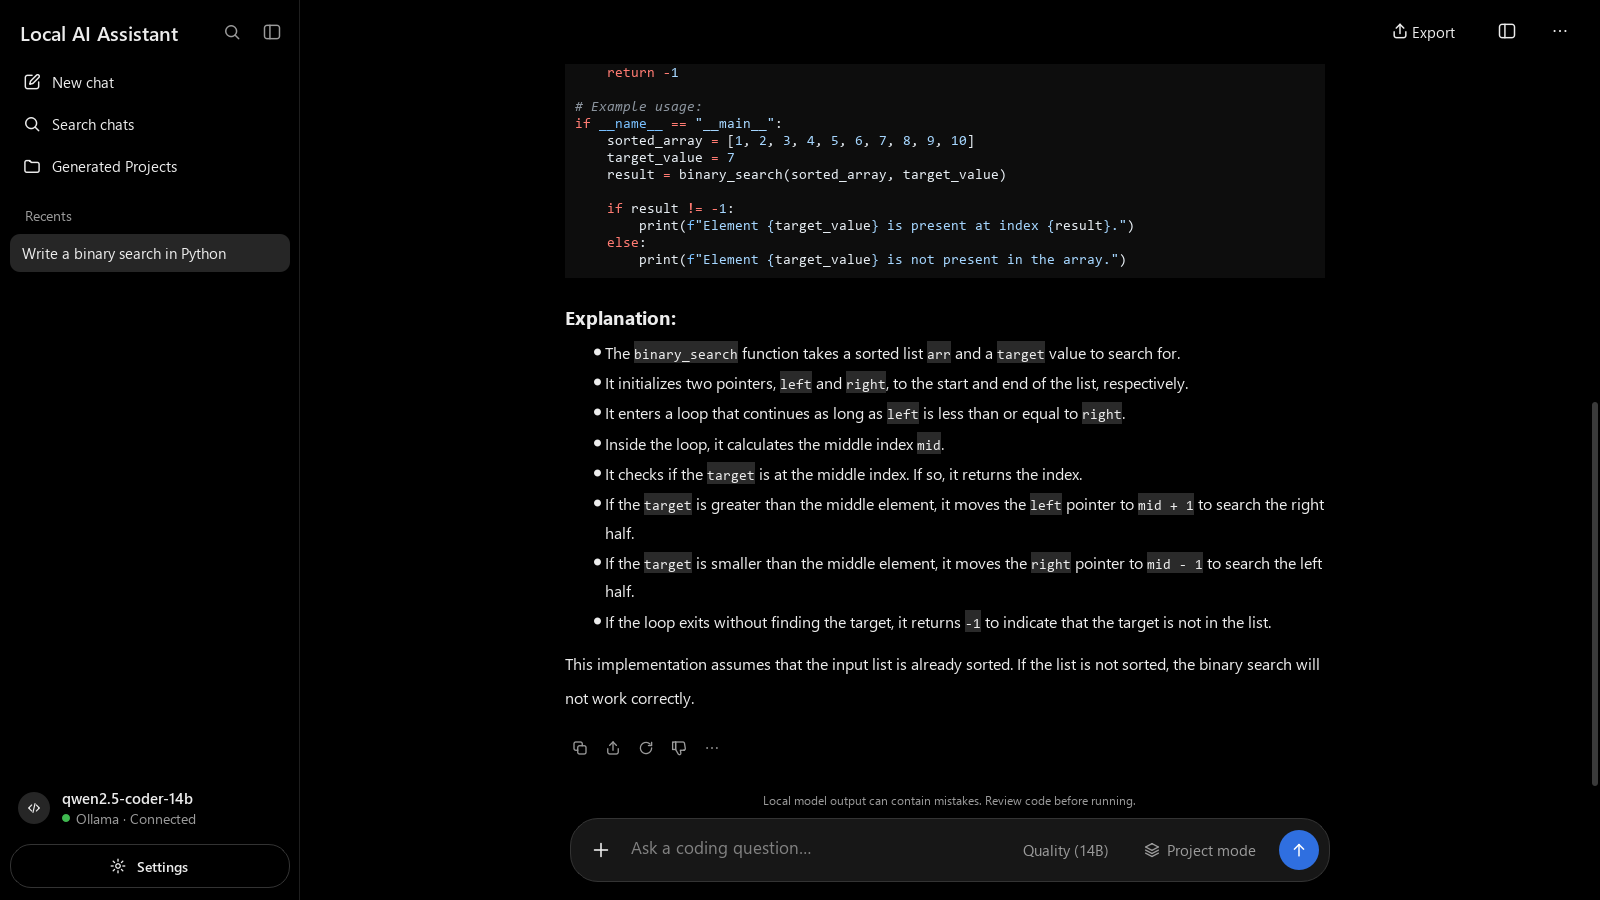
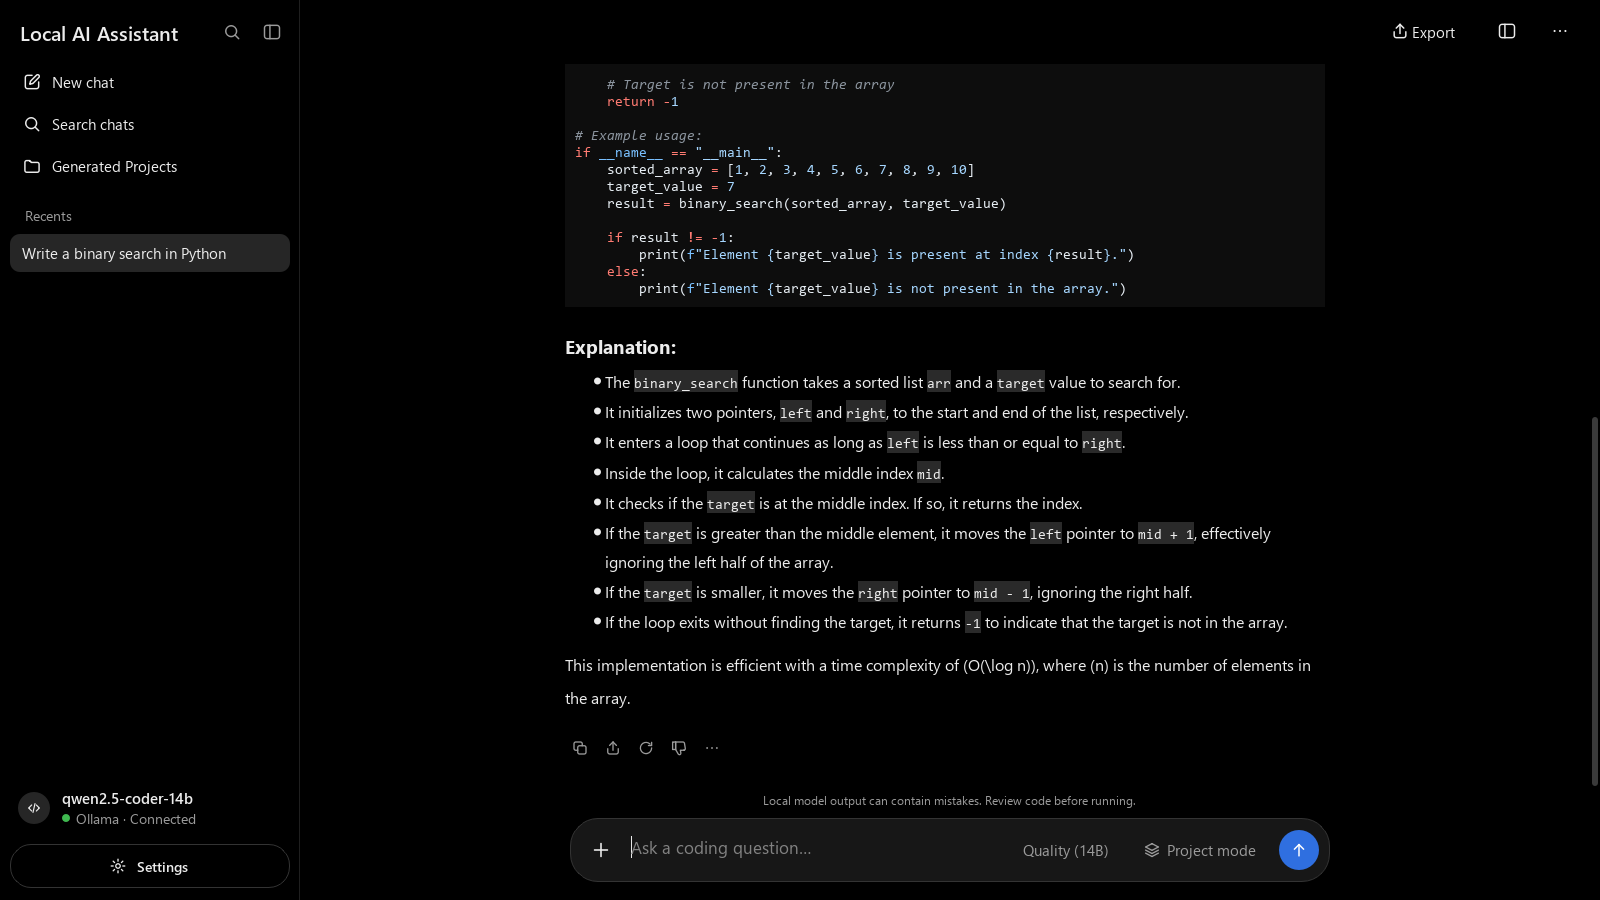
Phase 14: pre-publish cleanup
- screenshots 06-09 retaken in a neutral folder (D:\laa-demo), no user name visible
- tests/test_no_personal_paths.py: fails on C:\Users\<name> paths in tracked text files
- restored tool runs show Checks passed/failed instead of the model name, and failed
  runs no longer restore as error cards (DB v4 messages.kind, backfilled) + regression test
- fix an invalid escape in a Phase 13 test; version 1.1.1; docs updated
Tests: 633 passed, 1 skipped (MOCK); REAL app test 5/5; exe --check OK.

Changed region(s): [[0.3438, 0.0622, 0.8125, 0.6844], [0.375, 0.6844, 0.8125, 0.7467]]

diff --git a/app/ui/main_window.py b/app/ui/main_window.py
@@ -111,6 +111,8 @@ STATUS_PLANNING = "Planning project…"
 STATUS_PLAN_READY = "Project plan · review it, then click Generate files"
 JOB_CHAT, JOB_PLAN, JOB_GENERATE, JOB_TOOL = "chat", "plan", "generate", "tool"
 STATUS_RUNNING = "Running command…"
+STATUS_CHECKS_PASSED = "Checks passed"
+STATUS_CHECKS_FAILED = "Checks failed"
 MAX_REPAIR_ROUNDS = 3
 
 
@@ -448,11 +450,14 @@ class MainWindow(QMainWindow):
         if message.role == "user":
             self.chat_view.add_user_message(message.content)
             return
-        if message.status == "error":
+        if message.kind == "tool":
+            status = {"complete": STATUS_CHECKS_PASSED, "error": STATUS_CHECKS_FAILED}.get(message.status,
+                                                                                         STATUS_STOPPED)
+        elif message.status == "error":
             card = self.chat_view.add_error(message.content)
             card.retryRequested.connect(self.retry)
             return
-        if message.status == "stopped":
+        elif message.status == "stopped":
             status = STATUS_STOPPED
         elif self.demo_mode:
             status = demo.DEMO_STATUS
@@ -541,7 +546,7 @@ class MainWindow(QMainWindow):
 
     def _save_reply(self, chat_id: str, text: str, status: str, files: list[str] | None = None,
                     stats: StreamStats | None = None, project_id: str | None = None,
-                    model_name: str | None = None) -> ChatMessage | None:
+                    model_name: str | None = None, kind: str = "chat") -> ChatMessage | None:
         has_stats = stats is not None and stats.eval_count > 0
         replace = self._replace_reply_chat == chat_id
         self._replace_reply_chat = None
@@ -553,6 +558,7 @@ class MainWindow(QMainWindow):
                 project_id=project_id,
                 replace=replace,
                 model_name=model_name,
+                kind=kind,
             )
         except AppError as exc:
             self._storage_failed(exc, card=chat_id == self._current_chat_id)
@@ -1087,9 +1093,9 @@ class MainWindow(QMainWindow):
                 text += f"\n\n**Repair round {next_round} of {MAX_REPAIR_ROUNDS}:** asking the model for a fix…"
         if message is not None:
             message.set_text(text)
-            message.finish(status="Checks passed" if ok else "Checks failed")
+            message.finish(status=STATUS_CHECKS_PASSED if ok else STATUS_CHECKS_FAILED)
         if chat_id:
-            saved = self._save_reply(chat_id, text, "complete" if ok else "error")
+            saved = self._save_reply(chat_id, text, "complete" if ok else "error", kind="tool")
             if saved is not None and message is not None:
                 message.message_id = saved.id
         if next_round and chat_id:
@@ -1184,7 +1190,8 @@ class MainWindow(QMainWindow):
                 message.set_text("The command was stopped. Its process tree was ended.")
             message.finish(status=STATUS_STOPPED)
             if self._active_chat_id:
-                saved = self._save_reply(self._active_chat_id, message.text(), "stopped")
+                saved = self._save_reply(self._active_chat_id, message.text(), "stopped",
+                                         kind="tool" if self._job_kind == JOB_TOOL else "chat")
                 if saved is not None:
                     message.message_id = saved.id
         self._end_stream()

diff --git a/tests/test_storage.py b/tests/test_storage.py
@@ -57,7 +57,7 @@ def test_schema_created_at_latest_with_pragmas(db_path):
         assert isinstance(conn.execute("SELECT 1").fetchone(), sqlite3.Row)
     finally:
         conn.close()
-    assert latest_version() == 3
+    assert latest_version() == 4
 
 
 def test_reopen_does_not_reapply(db_path):
@@ -333,7 +333,7 @@ def test_inspect_database_is_read_only(db_path):
 
 
 def test_repository_schema_version(repo):
-    assert repo.schema_version() == latest_version() == 3
+    assert repo.schema_version() == latest_version() == 4
 
 
 def test_real_v1_database_upgrades_to_latest_and_keeps_data(db_path):
@@ -395,7 +395,7 @@ def test_v2_database_upgrades_to_v3_and_keeps_data(db_path):
     v2.close()
     repo = SqliteChatRepository.open(db_path)
     try:
-        assert repo.schema_version() == 3
+        assert repo.schema_version() == latest_version()
         old = repo.get_messages(chat.id)[0]
         assert old.content == "old answer" and old.model_name is None  # unknown for old rows
         assert repo.get_chat(chat.id).model_name == "qwen2.5-coder-14b:latest"
@@ -414,3 +414,32 @@ def test_message_and_chat_model_round_trip(repo):
         repo.set_chat_model(chat.id, " ")
     with pytest.raises(StorageError):
         repo.set_chat_model("missing", "qwen2.5-coder-7b:latest")
+
+
+
+# --- v4: message kind (Phase 14) ------------------------------------------------------------
+TOOL_TEXT = "`python -m pytest -q` in `D:\\laa-demo\\p`\n\nExit code 1 · 0.5 s\n\nErrors:\n````text\nboom\n````"
+
+
+def test_v3_database_upgrades_to_v4_and_backfills_tool_messages(db_path):
+    v3 = SqliteChatRepository(open_database(db_path, MIGRATIONS[:3]))
+    chat = v3.create_chat()
+    for seq, content in ((1, TOOL_TEXT), (2, "A normal answer with `code` in it.")):
+        v3._conn.execute(
+            "INSERT INTO messages (conversation_id, seq, role, content, status, created_at)"
+            " VALUES (?, ?, 'assistant', ?, 'error', '2026-01-01')", (chat.id, seq, content))
+    v3.close()
+    repo = SqliteChatRepository.open(db_path)
+    try:
+        kinds = [m.kind for m in repo.get_messages(chat.id)]
+        assert repo.schema_version() == 4 and kinds == ["tool", "chat"]
+    finally:
+        repo.close()
+
+
+def test_message_kind_round_trip_and_validation(repo):
+    chat = repo.create_chat()
+    repo.add_message(chat.id, ChatMessage("assistant", "out", kind="tool"))
+    assert repo.get_messages(chat.id)[0].kind == "tool"
+    with pytest.raises(StorageError):
+        repo.add_message(chat.id, ChatMessage("assistant", "x", kind="weird"))

diff --git a/tests/test_no_personal_paths.py b/tests/test_no_personal_paths.py
@@ -1,0 +1,58 @@
+"""Release hygiene: no tracked text file may contain a real user's home path (C:\\Users\\<name>).
+
+Generic placeholders are allowed: ``C:\\Users\\...``, ``C:\\Users\\<user>``, ``C:\\Users\\Public``,
+``C:\\Users\\Default`` and ``C:\\Users\\All Users``.
+"""
+
+import re
+import subprocess
+from pathlib import Path
+
+import pytest
+
+ROOT = Path(__file__).resolve().parent.parent
+USER_PATH = re.compile(r"[A-Za-z]:[\\/]+Users[\\/]+([^\\/\s`'\"<>|*?:]+)", re.IGNORECASE)
+ALLOWED_NAMES = {"...", "<user>", "<name>", "public", "default", "all users", "%username%"}
+
+
+def offending_lines(text: str) -> list[str]:
+    hits = []
+    for line in text.splitlines():
+        for match in USER_PATH.finditer(line):
+            name = match.group(1).strip().lower()
+            if name not in ALLOWED_NAMES and not name.startswith("<"):
+                hits.append(line.strip()[:160])
+    return hits
+
+
+def tracked_text_files() -> list[Path]:
+    try:
+        out = subprocess.run(["git", "ls-files", "-z"], cwd=ROOT, capture_output=True, check=True).stdout
+    except (OSError, subprocess.CalledProcessError):
+        pytest.skip("git is not available")
+    files = []
+    for name in out.decode("utf-8", "replace").split("\0"):
+        path = ROOT / name
+        if not name or not path.is_file() or path.resolve() == Path(__file__).resolve():
+            continue  # this file holds made-up example paths on purpose
+        data = path.read_bytes()
+        if b"\0" in data[:8192]:
+            continue  # binary (images): checked by eye, see docs/TEST_REPORT.md
+        files.append(path)
+    return files
+
+
+def test_detector_catches_real_user_paths_and_allows_placeholders():
+    assert offending_lines(r"saved to C:\Users\alice\AppData\Local\x")
+    assert offending_lines("see C:/Users/bob/Desktop")
+    assert not offending_lines(r"hard-coded user paths (for example `C:\Users\...`)")
+    assert not offending_lines(r"C:\Users\<user>\AppData and C:\Users\Public\x")
+
+
+def test_no_tracked_text_file_contains_a_user_home_path():
+    problems = {}
+    for path in tracked_text_files():
+        hits = offending_lines(path.read_text(encoding="utf-8", errors="replace"))
+        if hits:
+            problems[str(path.relative_to(ROOT))] = hits[:3]
+    assert not problems, f"personal paths in tracked files: {problems}"

diff --git a/app/storage/chat_repository.py b/app/storage/chat_repository.py
@@ -45,7 +45,7 @@ def _message(row: sqlite3.Row) -> ChatMessage:
     return ChatMessage(
         role=row["role"], content=row["content"], status=row["status"], eval_count=row["eval_count"],
         tokens_per_sec=row["tokens_per_sec"], feedback=row["feedback"], id=row["id"], seq=row["seq"],
-        created_at=row["created_at"], model_name=row["model_name"],
+        created_at=row["created_at"], model_name=row["model_name"], kind=row["kind"],
     )
 
 
@@ -153,9 +153,9 @@ class SqliteChatRepository:
         ).fetchone()[0]
         cursor = conn.execute(
             "INSERT INTO messages (conversation_id, seq, role, content, status, eval_count, tokens_per_sec,"
-            " feedback, created_at, model_name) VALUES (?, ?, ?, ?, ?, ?, ?, ?, ?, ?)",
+            " feedback, created_at, model_name, kind) VALUES (?, ?, ?, ?, ?, ?, ?, ?, ?, ?, ?)",
             (chat_id, seq, message.role, message.content, message.status, message.eval_count,
-             message.tokens_per_sec, message.feedback, now, message.model_name),
+             message.tokens_per_sec, message.feedback, now, message.model_name, message.kind),
         )
         for position, path in enumerate(message.files):
             conn.execute("INSERT INTO message_files (message_id, position, path, project_id) VALUES (?, ?, ?, ?)",
@@ -165,7 +165,7 @@ class SqliteChatRepository:
             role=message.role, content=message.content, files=list(message.files), status=message.status,
             eval_count=message.eval_count, tokens_per_sec=message.tokens_per_sec, feedback=message.feedback,
             id=cursor.lastrowid, seq=seq, created_at=now, project_id=message.project_id,
-            model_name=message.model_name,
+            model_name=message.model_name, kind=message.kind,
         )
 
     def _touch(self, conn: sqlite3.Connection, chat_id: str, now: str) -> None:

diff --git a/tests/test_ui_commands.py b/tests/test_ui_commands.py
@@ -104,3 +104,26 @@ def test_no_project_means_no_command(win):
     win.approver = lambda command, cwd: pytest.fail("must not ask")
     assert win.run_project_tests() is False
     assert win.toast.isVisible()
+
+
+
+def test_restored_tool_runs_show_checks_status_not_the_model(qtbot, win, project, tmp_config, tmp_path):
+    """Regression: after a restart, test-run messages showed the model name, and failed runs were
+    restored as red error cards with raw Markdown."""
+    win.approver = lambda command, cwd: True
+    with qtbot.waitSignal(win.streamFinished, timeout=60000):
+        win.run_project_tests()  # passes
+    (project / "test_calc.py").write_text("def test_bad():\n    assert 1 == 2\n", encoding="utf-8")
+    win._repair.clear()
+    with qtbot.waitSignal(win.streamFinished, timeout=60000):
+        win.run_project_command(["python", "-m", "pytest", "-q"])  # fails, no repair loop
+    chat_id = win.current_chat_id()
+    kinds = [(m.kind, m.status) for m in win.store.get_messages(chat_id) if m.role == "assistant"]
+    assert kinds == [("tool", "complete"), ("tool", "error")]
+
+    win.chat_view.clear()
+    win._current_chat_id = None
+    win.select_chat(chat_id)  # restore from the database
+    restored = [w for w in win.chat_view.items if isinstance(w, AssistantMessage)]
+    assert [w.status_label.text() for w in restored] == ["Checks passed", "Checks failed"]
+    assert not [w for w in win.chat_view.items if isinstance(w, ErrorCard)]

diff --git a/tests/test_main.py b/tests/test_main.py
@@ -70,7 +70,7 @@ def test_check_reports_database_without_creating_it(tmp_path):
     result = _run(tmp_path, "--check", LAA_OLLAMA_URL=UNUSED_LOCAL_URL)
     assert result.returncode == 0, result.stderr
     assert "assistant.db" in result.stdout
-    assert "DB schema     : not created yet (app supports v3)" in result.stdout
+    assert "DB schema     : not created yet (app supports v4)" in result.stdout
     assert not (tmp_path / "data" / "assistant.db").exists()
 
 
@@ -81,7 +81,7 @@ def test_check_reports_schema_and_chat_count(tmp_path):
     repo.create_chat()
     repo.close()
     result = _run(tmp_path, "--check", LAA_OLLAMA_URL=UNUSED_LOCAL_URL)
-    assert "DB schema     : v3 (app supports v3)" in result.stdout
+    assert "DB schema     : v4 (app supports v4)" in result.stdout
     assert "Chats         : 1" in result.stdout
 
 
@@ -141,5 +141,5 @@ def test_check_reports_both_models_and_optional_fast(tmp_path):
     assert "Model         : qwen2.5-coder-14b:latest (default, Quality)" in result.stdout
     assert "Fast model    : qwen2.5-coder-7b:latest (optional" in result.stdout
     assert "Fast present  : no" in result.stdout
-    assert "ollama create qwen2.5-coder-7b -f .\ollama\Modelfile.fast" in result.stdout
+    assert r"ollama create qwen2.5-coder-7b -f .\ollama\Modelfile.fast" in result.stdout
     assert "WARNING" not in result.stdout  # the fast model is optional

diff --git a/app/backend/chat_store.py b/app/backend/chat_store.py
@@ -23,6 +23,7 @@ AUTO_TITLE_MAX = 40
 TITLE_MAX = 80
 ROLES = ("user", "assistant")
 STATUSES = ("complete", "stopped", "error")
+KINDS = ("chat", "tool")  # tool = output of an approved command (tests); restored as a checks result
 FEEDBACK_BAD = "bad"
 FEEDBACK_VALUES = (None, FEEDBACK_BAD)
 LAST_CHAT_SETTING = "last_chat_id"
@@ -43,6 +44,7 @@ class ChatMessage:
     created_at: str | None = None
     project_id: str | None = None  # the project the file cards belong to
     model_name: str | None = None  # the model that wrote an assistant message
+    kind: str = "chat"
 
 
 @dataclass
@@ -95,6 +97,8 @@ def check_message(message: ChatMessage) -> None:
         raise StorageError("Could not save the message.", detail=f"invalid role {message.role!r}")
     if message.status not in STATUSES:
         raise StorageError("Could not save the message.", detail=f"invalid status {message.status!r}")
+    if message.kind not in KINDS:
+        raise StorageError("Could not save the message.", detail=f"invalid kind {message.kind!r}")
     if not isinstance(message.content, str):
         raise StorageError("Could not save the message.", detail="content must be text")
 

diff --git a/app/storage/database.py b/app/storage/database.py
@@ -82,11 +82,19 @@ SCHEMA_V3 = """
 ALTER TABLE messages ADD COLUMN model_name TEXT;
 """
 
+SCHEMA_V4 = """
+ALTER TABLE messages ADD COLUMN kind TEXT NOT NULL DEFAULT 'chat';
+UPDATE messages SET kind = 'tool'
+ WHERE role = 'assistant' AND content LIKE '`%` in `%'
+   AND (content LIKE '%Exit code %' OR content LIKE '%Command timed out%');
+"""
+
 # Ordered (version, SQL). Append new versions; never edit a released one.
 MIGRATIONS: list[tuple[int, str]] = [
     (1, SCHEMA_V1),
     (2, SCHEMA_V2),  # Phase 6: file cards of generated/edited files
     (3, SCHEMA_V3),  # Phase 13: which model wrote each answer (Quality 14B or Fast 7B)
+    (4, SCHEMA_V4),  # Phase 14: 'tool' messages (test/command output) restore as checks, not as answers
 ]
 
 _SCHEMA_VERSION_SQL = (

diff --git a/app/backend/chat_service.py b/app/backend/chat_service.py
@@ -129,6 +129,7 @@ class ChatService:
         project_id: str | None = None,
         replace: bool = False,
         model_name: str | None = None,
+        kind: str = "chat",
     ) -> ChatMessage | None:
         """Save an assistant message.
 
@@ -140,7 +141,7 @@ class ChatService:
             return None
         message = ChatMessage("assistant", text, files=list(files or []), status=status,
                               eval_count=eval_count, tokens_per_sec=tokens_per_sec, project_id=project_id,
-                              model_name=model_name)
+                              model_name=model_name, kind=kind)
         if replace:
             return self.store.replace_reply(chat_id, message)
         return self.store.add_message(chat_id, message)

diff --git a/tests/test_version.py b/tests/test_version.py
@@ -10,7 +10,7 @@ from tests.test_main import UNUSED_LOCAL_URL, _run
 
 def test_version_format():
     assert re.fullmatch(r"\d+\.\d+\.\d+", __version__)
-    assert __version__ == "1.1.0"
+    assert __version__ == "1.1.1"
 
 
 def test_check_and_version_flag_show_the_version(tmp_path):

diff --git a/app/__version__.py b/app/__version__.py
@@ -1,3 +1,3 @@
 """Single source of the application version."""
 
-__version__ = "1.1.0"
+__version__ = "1.1.1"

diff --git a/PLAN.md b/PLAN.md
@@ -194,6 +194,17 @@ stop at every phase boundary and wait for approval.
 
 ---
 
+## Phase 14 — Pre-publish Cleanup  `[x]`
+
+- [x] Found every tracked file and commit containing the Windows user name, `C:\Users\` or "OneDrive" (text and images)
+- [x] Current files clean; screenshots 06–09 retaken under `D:\laa-demo` (REAL app test 5/5)
+- [x] `tests/test_no_personal_paths.py` fails on any `C:\Users\<name>` path in tracked text files
+- [x] Backup at `D:\coder slm-backup`; history rewritten with git filter-repo (paths replaced, old screenshots stripped); tags re-created
+- [x] Restored tool runs show "Checks passed"/"Checks failed" (schema v4 `messages.kind`, backfilled) + regression test
+- [x] Version 1.1.1; pytest, exe rebuild and `--check` verified
+
+---
+
 ## Final Deliverables Checklist
 
 - [x] Native Windows desktop app (PySide6)
@@ -233,3 +244,4 @@ stop at every phase boundary and wait for approval.
 | 2026-10-12 | 11 | Windows packaging: PyInstaller spec (onedir, windowed), bundled prompt/icons/Modelfile/docs, --check console attach + logs\check.txt, bundled-Modelfile hint, worker shutdown at exit, INSTALL.md, TEST_REPORT.md, README | 601 passed, 1 skipped (MOCK); 4 integration passed (REAL); packaged exe --check and window launch OK (REAL) |
 | 2026-10-12 | 12 | Polish and release 1.0.0: performance trials (nothing kept), REAL end-to-end app test + 6 fixes, build 567 → 322 MB, gitignore/secret scan, version 1.0.0, README/CHANGELOG/LICENSE | 611 passed, 1 skipped (MOCK); 9 integration passed (REAL); exe --check OK |
 | 2026-10-13 | 13 | Fast mode: optional user-selected `qwen2.5-coder-7b:latest` per chat (no fallback), DB v3, both-model health and --check, plan-card note, parser fix found by the REAL 7B run; v1.1.0 | 628 passed, 1 skipped (MOCK); 11 integration passed incl. 1 re-run after a sleep-related Ollama timeout (REAL); 7B 6.40 vs 14B 3.19 tok/s |
+| 2026-10-13 | 14 | Pre-publish cleanup: personal paths removed from files and history (filter-repo, backup kept), neutral screenshots, personal-path test, tool-run restore fix (DB v4), v1.1.1 | 633 passed, 1 skipped (MOCK); REAL app test 5/5; exe --check OK |
